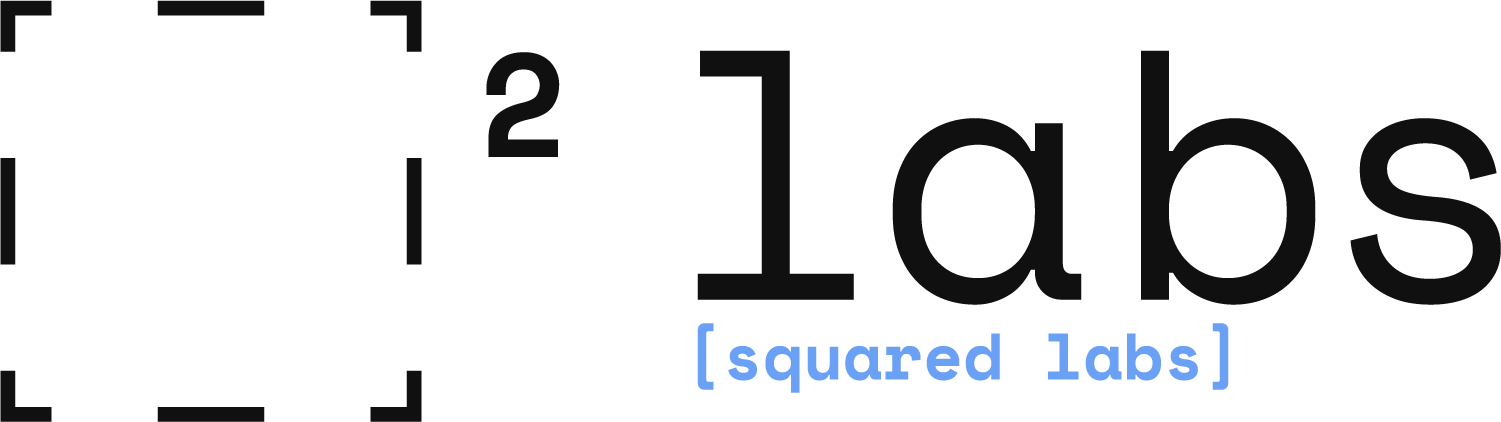
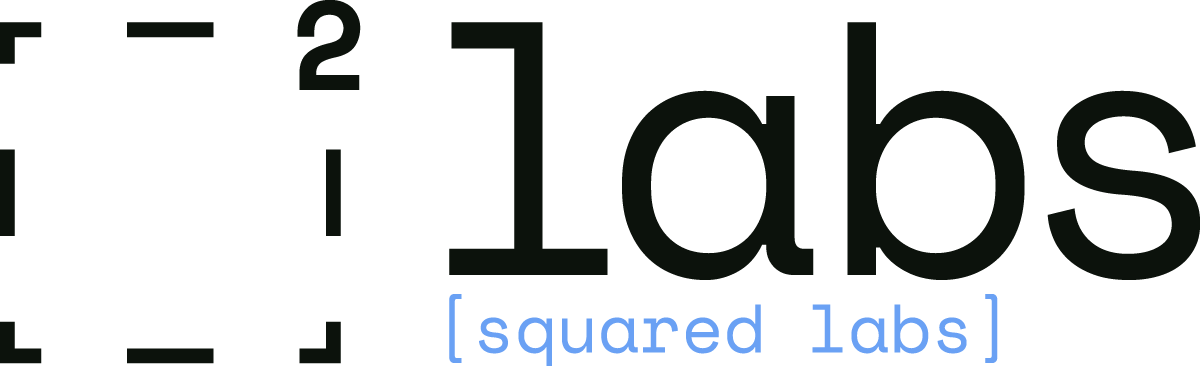
Close 169

diff --git a/components/VNavbar.vue b/components/VNavbar.vue
@@ -12,9 +12,9 @@
     <router-link
       class="brand col-sm-2 off-sm-1 off-md-0 col-md-1 col-1"
       to="/">
-      <figure class="brand">
-        <img src="~/assets/images/wordmark.png">
-      </figure>
+      <img
+        class="brand"
+        src="~/assets/images/wordmark.svg">
     </router-link>
     <v-link
       class="link col-sm-1 off-3 off-lg-6"
@@ -181,7 +181,11 @@ export default {
   }
 }
 
-.blueTheme .brand img {
+.brand {
+  width: 100%;
+}
+
+.blueTheme .brand {
   filter: brightness(0) invert(1);
 }
 
@@ -198,14 +202,6 @@ export default {
 nav .link {
   line-height: 1.75em;
   height: 1.25em;
-}
-
-.brand {
-  margin: 0;
-}
-
-.brand > img {
-  width: 100%;
 }
 </style>
 

diff --git a/pages/home.vue b/pages/home.vue
@@ -3,11 +3,9 @@
     <v-grid-layout
       id="landSection"
       section="landing">
-      <div class="col-lg-10 col-8 col-sm-4 col-md-6 off-lg-1">
-        <img
-          class="logo"
-          src="~/assets/images/squaredlabs.svg">
-      </div>
+      <img
+        class="logo col-lg-10 col-8 col-sm-4 col-md-6 off-lg-1"
+        src="~/assets/images/full-wordmark.svg">
     </v-grid-layout>
     <v-grid-layout
       id="projectSection"
@@ -172,6 +170,15 @@ export default {
   > * {
     z-index: 1;
   }
+}
+
+#landSection {
+  min-height: 40vh;
+}
+
+.logo {
+  width: 80%;
+  margin: auto;
 }
 
 #connectSection:before {
